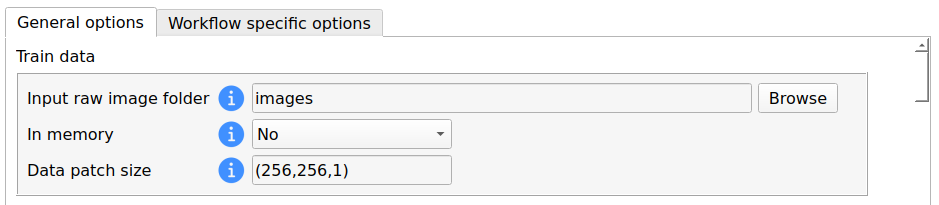
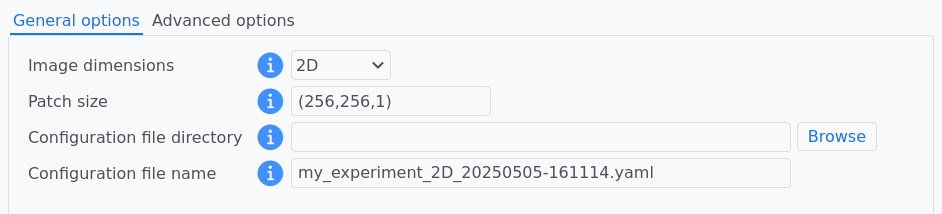
Update image classification documentation with new GUI changes.

diff --git a/source/workflows/classification.rst b/source/workflows/classification.rst
@@ -58,7 +58,7 @@ The image classification workflows in BiaPy expect a series of **folders** as in
 
         Under *Workflow*, select *Image classification*, twice *Continue*, under *General options* > *Train data*, click on the *Browse* button of **Input raw image folder**:
 
-        .. image:: ../img/classification/GUI-general-options.png
+        .. image:: ../img/classification/GUI-train-general-options.png
           :align: center
 
       .. tab:: Google Colab / Notebooks
@@ -277,7 +277,7 @@ To define such set, there are two options:
       .. tabs::
         .. tab:: GUI
 
-          Under *Workflow*, select *Image classification*, click twice on *Continue*, and under *General options* > *Validation data*, select "Extract from train (split training)" in **Validation type**, and introduce your value (between 0 and 1) in the **Train proportion for validation**:
+          Under *Workflow*, select *Image classification*, click twice on *Continue*, and under *Advanced options* > *Validation data*, select "Extract from train (split training)" in **Validation type**, and introduce your value (between 0 and 1) in the **Train prop. for validation**:
 
           .. image:: ../img/GUI-validation-percentage.png
             :align: center
@@ -302,7 +302,7 @@ To define such set, there are two options:
     .. tabs::
       .. tab:: GUI
 
-        Under *Workflow*, select *Image classification*, click twice on *Continue*, and under *General options* > *Advanced options* > *Validation data*, select "Not extracted from train (path needed)" in **Validation type**, click on the *Browse* button of **Input raw image folder** and select the folder containing your validation raw images:
+        Under *Workflow*, select *Image classification*, click twice on *Continue*, and under *Advanced options* > *Validation data*, select "Not extracted from train (path needed)" in **Validation type**, click on the *Browse* button of **Input raw image folder** and select the folder containing your validation raw images:
 
         .. image:: ../img/classification/GUI-validation-paths.png
           :align: center
@@ -358,7 +358,7 @@ At the core of each BiaPy workflow there is a deep learning model. Although we t
         .. tabs::
           .. tab:: GUI
 
-            Under *Workflow*, select *Image classification*, click twice on *Continue*, and under *Workflow specific options* > *Train data options*, and edit the field **Number of classes**:
+            Under *Workflow*, select *Image classification*, click twice on *Continue*, and under *Workflow specific options* > *Extra options*, and edit the field **Number of classes**:
 
             .. image:: ../img/classification/GUI-workflow-specific-options.png
               :align: center
@@ -382,7 +382,7 @@ At the core of each BiaPy workflow there is a deep learning model. Although we t
         .. tabs::
           .. tab:: GUI
 
-            Under *Workflow*, select *Image classification*, click twice on *Continue*, and under *General options* > *Train data*, edit the last value of the field **Data patch size** with the number of channels. This variable follows a ``(y, x, channels)`` notation in 2D and a ``(z, y, x, channels)`` notation in 3D:
+            Under *Workflow*, select *Image classification*, click once on *Continue*, and under *General options*, edit the last value of the field **Patch size** with the number of channels. This variable follows a ``(y, x, channels)`` notation in 2D and a ``(z, y, x, channels)`` notation in 3D:
 
             .. image:: ../img/classification/GUI-general-options.png
               :align: center
@@ -406,7 +406,7 @@ At the core of each BiaPy workflow there is a deep learning model. Although we t
         .. tabs::
           .. tab:: GUI
 
-            Under *Workflow*, select *Image classification*, click twice on *Continue*, and under *General options*, click on *Advanced options*, scroll down to *General training parameters*, and edit the field **Number of epochs**:
+            Under *Workflow*, select *Image classification*, click twice on *Continue*, and under *Advanced options*, scroll down to *General training parameters*, and edit the field **Number of epochs**:
 
             .. image:: ../img/classification/GUI-basic-training-params.png
               :align: center
@@ -430,7 +430,7 @@ At the core of each BiaPy workflow there is a deep learning model. Although we t
         .. tabs::
           .. tab:: GUI
 
-            Under *Workflow*, select *Image classification*, click twice on *Continue*, and under *General options*, click on *Advanced options*, scroll down to *General training parameters*, and edit the field **Patience**:
+            Under *Workflow*, select *Image classification*, click twice on *Continue*, and under *Advanced options*, scroll down to *General training parameters*, and edit the field **Patience**:
 
             .. image:: ../img/classification/GUI-basic-training-params.png
               :align: center
